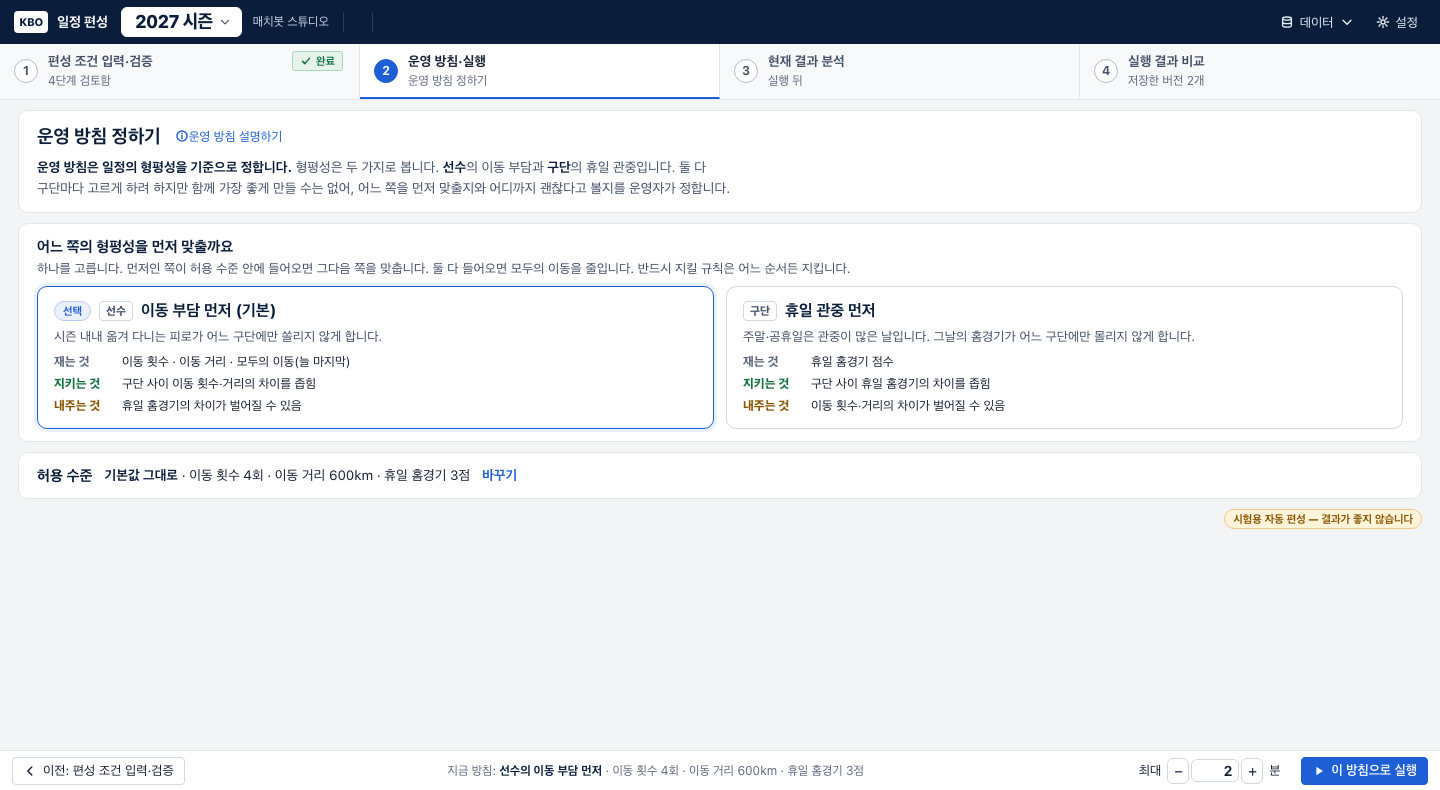
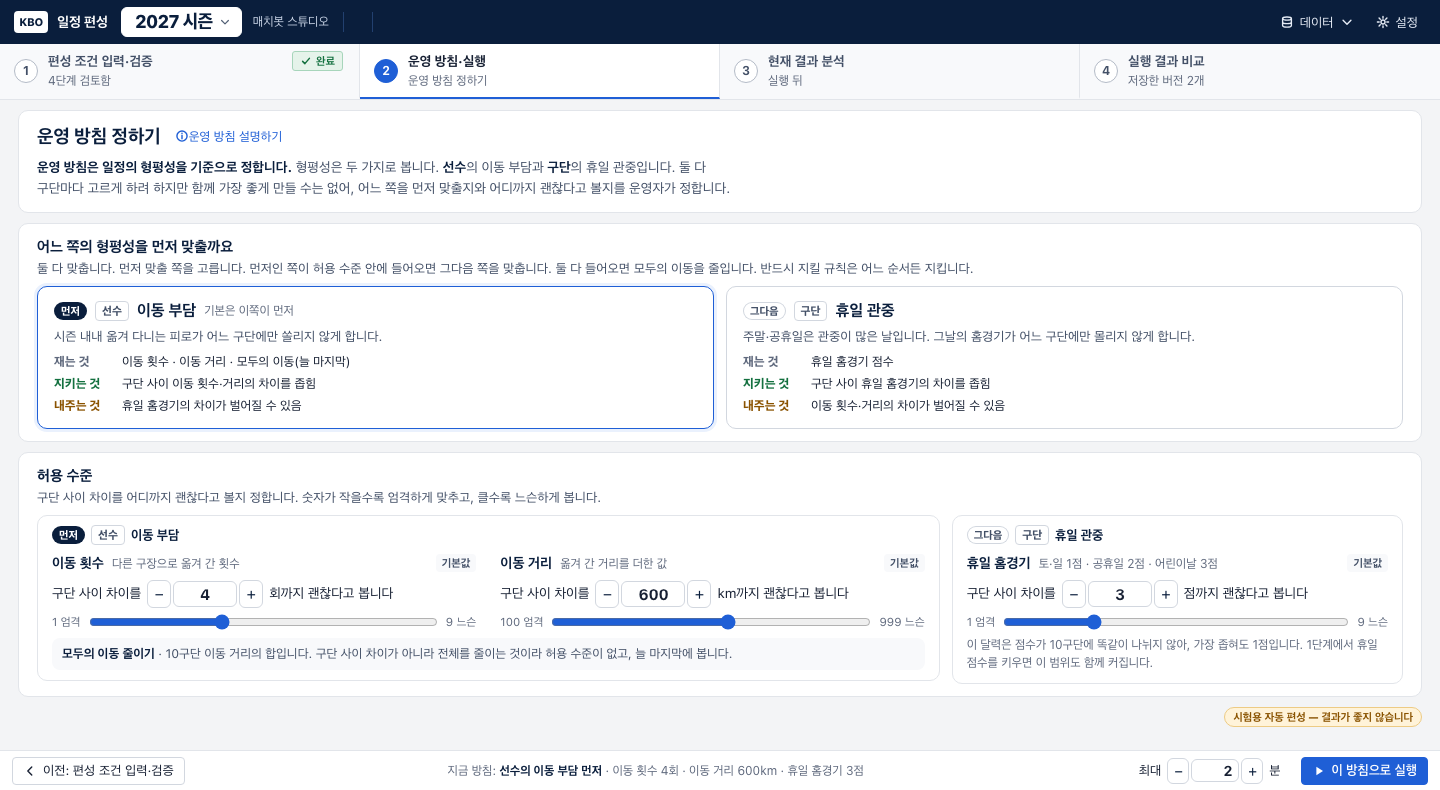
운영 방침 화면: 허용 수준을 늘 펼쳐 보이고, 고른 순서대로 「먼저」「그다음」
- 허용 수준의 접기·「바꾸기」와 요약 한 줄을 없앰(접어 두면 둘 중 하나만 하는 것처럼 읽혔다 — 사용자 지적). 세 숫자 요약은 아래 줄에만
- 카드를 바꾸면 허용 수준 두 칸의 자리도 바뀜: 먼저 맞출 쪽이 왼쪽 「먼저」, 다른 쪽이 「그다음」
- 카드의 「선택」 표를 「먼저」「그다음」으로. 표가 순서를 말하므로 카드 제목은 관점 이름만(「이동 부담」「휴일 관중」), 선수 카드에 「기본은 이쪽이 먼저」
- 카드 위 글 「둘 다 맞춥니다. 먼저 맞출 쪽을 고릅니다.」
- 자가 점검의 숫자 칸 찾기를 칸 순서가 아니라 이름으로, 화면 그림 다시 찍음

diff --git a/ui/app/studio/plan-selftest.js b/ui/app/studio/plan-selftest.js
@@ -15,7 +15,8 @@
   const wait = (ms) => new Promise((r) => setTimeout(r, ms));
   const page = () => (q('#app') || document.body).innerText;
   const ev = (t) => st().events.find((e) => e.type === t);
-  const setBox = (i, v) => { const el = qa('input[data-in="pf-gap"]:not([type=range])')[i]; el.value = v; el.dispatchEvent(new Event('change', { bubbles: true })); flush(); };
+  // 허용 수준 숫자 칸: 0 이동 횟수 · 1 이동 거리 · 2 휴일 홈경기(화면의 칸 순서는 고른 쪽에 따라 바뀌므로 이름으로 찾는다)
+  const setBox = (i, v) => { const el = q('#pf-levels input[data-in="pf-gap"][data-k="' + ['moveGap', 'distanceGapKm', 'holidayGap'][i] + '"]:not([type=range])'); el.value = v; el.dispatchEvent(new Event('change', { bubbles: true })); flush(); };
   const ob = () => st().settings.objective;
   // 규칙을 어긴 결과는 저장하지 않는다. 시험 엔진은 짧은 시간에 규칙을 다 맞추지 못할 수 있어, 그때는 지킨 결과처럼 다시 기록해 이후 점검(저장·번호·불러오기)을 이어 간다
   let forcedRuns = 0;
@@ -89,11 +90,12 @@
       const hasKT = (ms) => ms.some((m) => m.home === 'KIA' && m.away === '키움') && ms.some((m) => m.home === '삼성' && m.away === 'NC');
       ok('다음 → 시리즈를 다시 만들어 개막전·후반기 첫 4연전이 새 대진을 따름', S.ui.step === 2 && S.seriesOkOf(st()) && hasKT(slotMatches(0)) && hasKT(slotMatches(four)));
 
-      // ── 운영 방침 → settings.objective (선택안 B, 사용자 확정 2026-11-12: 카드 둘 + 접어 둔 허용 수준)
-      const cardNames = () => qa('.pf-oc h4').map((h) => h.textContent.replace(/^선택/, '').replace(/^(선수|구단)/, '').trim()).join();
+      // ── 운영 방침 → settings.objective (선택안 B, 사용자 확정 2026-11-12: 카드 둘 + 늘 보이는 허용 수준, 고른 쪽이 「먼저」)
+      const cardNames = () => qa('.pf-oc h4 .nm').map((h) => h.innerText.trim()).join();
+      const cardTags = () => qa('.pf-oc[data-id]').map((c) => c.dataset.id + ':' + ((c.querySelector('h4 .pf-rk') || {}).innerText || '')).join();
       const policy = () => q('.footer .pf-policy').innerText;
       const pageText = () => q('.pf-page').innerText;
-      const sumText = () => q('#pf-levels .pf-fold .sum').innerText;
+      const grpOrder = () => qa('#pf-levels .pf-lv3 > .grp').map((g) => g.dataset.view + ':' + ((g.querySelector('h4 .pf-rk') || {}).innerText || '')).join();
       const stepBtn = (k, d) => q('[data-act="pf-gap-step"][data-k="' + k + '"][data-d="' + d + '"]');
       const rangeOf = (k) => q('#pf-levels input[type=range][data-k="' + k + '"]');
       const boxOf = (k) => q('#pf-levels input[data-in="pf-gap"][data-k="' + k + '"]:not([type=range])');
@@ -102,35 +104,35 @@
       ok('머리글: 「운영 방침 정하기」 · 첫 문장은 형평성 · 두 관점(선수의 이동 부담 · 구단의 휴일 관중) · 설명 링크(제목 바로 오른쪽)', /운영 방침 정하기/.test(q('.pf-head h2').innerText) && /운영 방침은 일정의 형평성을 기준으로 정합니다\./.test(q('.pf-head .pf-d').innerText) && /선수의 이동 부담과 구단의 휴일 관중입니다/.test(q('.pf-head .pf-d').innerText) && /구단마다 고르게/.test(q('.pf-head .pf-d').innerText) && q('.pf-head h2 [data-act="pf-explain"]').getBoundingClientRect().left - q('.pf-head h2').getBoundingClientRect().left < 320);
       ok('없어진 것: 가로 띠 · 목표 네 칸 · 「지금 순위」 칸 · 옛 말(격차 · 순위 · 목표 · 운영의 묘 · 만족)', !q('.pf-band') && !q('.pf-goals') && !q('.pf-goals-lead') && !q('#pf-order-now') && !q('.pf-bridge') && !/격차|순위|목표|운영의 묘|만족|리그 전체 효율/.test(pageText()), (pageText().match(/격차|순위|목표|운영의 묘|만족/) || []).join());
       ok('단계 띠: 「운영 방침·실행」 · 아래 줄: 방침 요약 + 실행 단추 하나(화면 안에는 없음)', /운영 방침·실행/.test(q('#stepper').innerText) && /지금 방침/.test(policy()) && qa('[data-act="pf-run"]').length === 1 && !!q('.footer [data-act="pf-run"]') && !q('.pf-page [data-act="pf-run"]'));
-      ok('카드 둘: 이동 부담 먼저 (기본) · 휴일 관중 먼저(직접 정하기는 숨김) · 관점 표시 선수/구단 · 고른 카드는 「선택」 · 두 제목이 한 줄', /어느 쪽의 형평성을 먼저 맞출까요/.test(pageText()) && cardNames() === '이동 부담 먼저 (기본),휴일 관중 먼저' && !q('[data-act="pf-order-custom"]') && !q('[data-act="pf-move"]') && qa('.pf-oc .pf-who').map((e) => e.innerText).join() === '선수,구단' && /선택/.test(q('.pf-oc.on h4').innerText) && q('.pf-oc.on').dataset.id === 'balance' && new Set(qa('.pf-orders h4').map((h) => Math.round(h.getBoundingClientRect().top))).size === 1, cardNames());
+      ok('카드 둘: 선수 · 이동 부담(기본은 이쪽이 먼저) · 구단 · 휴일 관중(직접 정하기는 숨김) · 고른 카드는 「먼저」, 다른 카드는 「그다음」(「선택」 표 없음) · 두 제목이 한 줄', /어느 쪽의 형평성을 먼저 맞출까요/.test(pageText()) && cardNames() === '이동 부담,휴일 관중' && !q('[data-act="pf-order-custom"]') && !q('[data-act="pf-move"]') && qa('.pf-oc .pf-who').map((e) => e.innerText).join() === '선수,구단' && cardTags() === 'balance:먼저,holiday:그다음' && !/선택/.test(q('#pf-first').innerText) && /기본은 이쪽이 먼저/.test(q('.pf-oc[data-id="balance"] h4').innerText) && !/기본/.test(q('.pf-oc[data-id="holiday"] h4').innerText) && q('.pf-oc.on').dataset.id === 'balance' && new Set(qa('.pf-orders h4').map((h) => Math.round(h.getBoundingClientRect().top))).size === 1, cardNames());
       ok('카드마다 설명 한 줄 · 재는 것 · 지키는 것 · 내주는 것(단정하지 않음) · 모두의 이동은 선수 쪽에 「늘 마지막」', qa('.pf-oc[data-id]').every((c) => !!c.querySelector('p').innerText && [...c.querySelectorAll('.pf-kg dt')].map((d) => d.innerText).join() === '재는 것,지키는 것,내주는 것') && qa('.pf-oc[data-id] .pf-kg div:nth-child(3) dd').every((d) => /수 있음$/.test(d.innerText)) && /이동 횟수 · 이동 거리 · 모두의 이동\(늘 마지막\)/.test(q('.pf-oc[data-id="balance"]').innerText) && /휴일 홈경기 점수/.test(q('.pf-oc[data-id="holiday"]').innerText));
       ok('규칙 설명은 한 문장(「조금이라도 나은 결과」와 함께 적지 않음)', /먼저인 쪽이 허용 수준 안에 들어오면 그다음 쪽을 맞춥니다\. 둘 다 들어오면 모두의 이동을 줄입니다\. 반드시 지킬 규칙은 어느 순서든 지킵니다\./.test(pageText()) && !/조금이라도 나은/.test(pageText()));
-      ok('허용 수준은 접혀 있음: 요약 한 줄 「기본값 그대로」 + 세 숫자 + 「바꾸기」', !q('#pf-levels .pf-lv') && !q('#pf-levels input') && /^기본값 그대로 · 이동 횟수 4회 · 이동 거리 600km · 휴일 홈경기 3점$/.test(sumText().trim()) && q('[data-act="pf-levels-toggle"]').innerText.trim() === '바꾸기' && q('[data-act="pf-levels-toggle"]').getAttribute('aria-expanded') === 'false', sumText());
+      ok('둘 다 맞춘다는 말이 카드 위에 있음(「하나를 고릅니다」로만 쓰지 않음)', /둘 다 맞춥니다\. 먼저 맞출 쪽을 고릅니다\./.test(q('#pf-first .pf-d').innerText) && !/하나를 고릅니다/.test(pageText()));
+      ok('허용 수준은 늘 펼쳐 보임(접기 · 바꾸기 단추 없음) · 처음에는 선수 칸이 「먼저」, 구단 칸이 「그다음」', qa('#pf-levels .pf-lv').length === 3 && !q('[data-act="pf-levels-toggle"]') && !q('#pf-levels .pf-fold') && grpOrder() === 'player:먼저,club:그다음' && qa('#pf-levels .pf-lv').map((e) => e.dataset.goal).join() === 'moves,distance,holiday', grpOrder());
       click('[data-act="pf-order"][data-id="holiday"]'); flush();
-      ok('「휴일 관중 먼저」 → 순서(모두의 이동은 마지막) · 그 카드가 「선택」 · 아래 줄 「구단의 휴일 관중 먼저」', ob().order.join() === 'holiday,moves,distance,total' && q('.pf-oc.on').dataset.id === 'holiday' && qa('.pf-oc.on').length === 1 && /지금 방침: 구단의 휴일 관중 먼저 · 이동 횟수 4회 · 이동 거리 600km · 휴일 홈경기 3점/.test(policy()), policy());
+      ok('「휴일 관중 먼저」 → 순서(모두의 이동은 마지막) · 그 카드가 「먼저」, 다른 카드가 「그다음」 · 허용 수준도 구단 칸이 왼쪽 「먼저」 · 아래 줄 「구단의 휴일 관중 먼저」', ob().order.join() === 'holiday,moves,distance,total' && q('.pf-oc.on').dataset.id === 'holiday' && qa('.pf-oc.on').length === 1 && cardTags() === 'balance:그다음,holiday:먼저' && grpOrder() === 'club:먼저,player:그다음' && qa('#pf-levels .pf-lv').map((e) => e.dataset.goal).join() === 'holiday,moves,distance' && q('#pf-levels .pf-lv3').getBoundingClientRect().left <= q('.grp[data-view="club"]').getBoundingClientRect().left && q('.grp[data-view="club"]').getBoundingClientRect().left < q('.grp[data-view="player"]').getBoundingClientRect().left && /지금 방침: 구단의 휴일 관중 먼저 · 이동 횟수 4회 · 이동 거리 600km · 휴일 홈경기 3점/.test(policy()), policy());
       // 옛 프로젝트·저장 버전: 두 카드와 다른 순서는 그대로 두고 「직접 정한 순서」로 부른다
       setOb({ order: ['moves', 'holiday', 'distance', 'total'] });
-      ok('두 카드와 다른 순서 → 고른 카드 없음 · 카드 아래 「직접 정한 순서」 한 줄(화살표 없음) · 아래 줄도 같은 이름', !q('.pf-oc.on') && /직접 정한 순서/.test(q('#pf-order-now').innerText) && qa('#pf-order-now li .nm').map((e) => e.innerText).join() === '이동 횟수,휴일 홈경기,이동 거리,모두의 이동' && /마지막/.test(qa('#pf-order-now li')[3].innerText) && !q('#pf-order-now [data-act="pf-move"]') && /카드를 고르면 그 순서로 바뀝니다/.test(q('#pf-order-now').innerText) && /지금 방침: 직접 정한 순서 · /.test(policy()) && P.optionOf(ob()) === 'custom');
+      ok('두 카드와 다른 순서 → 고른 카드 없음(카드에 먼저/그다음 표도 없음) · 카드 아래 「직접 정한 순서」 한 줄(화살표 없음) · 아래 줄도 같은 이름 · 허용 수준 칸에는 먼저/그다음 표가 없음', !q('.pf-oc.on') && cardTags() === 'balance:,holiday:' && /직접 정한 순서/.test(q('#pf-order-now').innerText) && qa('#pf-order-now li .nm').map((e) => e.innerText).join() === '이동 횟수,휴일 홈경기,이동 거리,모두의 이동' && /마지막/.test(qa('#pf-order-now li')[3].innerText) && !q('#pf-order-now [data-act="pf-move"]') && /카드를 고르면 그 순서로 바뀝니다/.test(q('#pf-order-now').innerText) && /지금 방침: 직접 정한 순서 · /.test(policy()) && P.optionOf(ob()) === 'custom' && grpOrder() === 'player:,club:' && qa('#pf-levels .pf-lv').map((e) => e.dataset.goal).join() === 'moves,distance,holiday');
       S.actions['pf-move']({ dataset: { k: '0', d: '1' } }); S.actions['pf-order-custom']({}); flush();
       ok('꺼 둔 「직접 정하기」 동작은 불러도 그대로', ob().order.join() === 'moves,holiday,distance,total' && !P.customOrder && P.showDiy === false);
       // 스위치 하나로 다시 보인다(코드는 남겨 두었다)
       P.showDiy = true; flush();
-      ok('스위치를 켜면: 「직접 정하기」 카드 · 순서 줄에 화살표(모두의 이동 줄에는 없음)', cardNames() === '이동 부담 먼저 (기본),휴일 관중 먼저,직접 정하기' && /직접 정하기/.test(q('.pf-oc.on').innerText) && qa('#pf-order-now [data-act="pf-move"]').length === 6 && !q('[data-act="pf-move"][data-k="3"]') && q('[data-act="pf-move"][data-k="0"][data-d="-1"]').disabled && q('[data-act="pf-move"][data-k="2"][data-d="1"]').disabled);
+      ok('스위치를 켜면: 「직접 정하기」 카드 · 순서 줄에 화살표(모두의 이동 줄에는 없음)', cardNames() === '이동 부담,휴일 관중,직접 정하기' && /선택/.test(q('.pf-oc.on h4').innerText) && /직접 정하기/.test(q('.pf-oc.on').innerText) && qa('#pf-order-now [data-act="pf-move"]').length === 6 && !q('[data-act="pf-move"][data-k="3"]') && q('[data-act="pf-move"][data-k="0"][data-d="-1"]').disabled && q('[data-act="pf-move"][data-k="2"][data-d="1"]').disabled);
       click('[data-act="pf-move"][data-k="0"][data-d="1"]'); flush();
       S.actions['pf-move']({ dataset: { k: '2', d: '1' } }); flush();
       ok('켠 채로 ▼ → 순서가 바뀌고 직접 정하기로 남음 · 모두의 이동은 마지막 그대로', ob().order.join() === 'holiday,moves,distance,total' && /직접 정하기/.test(q('.pf-oc.on').innerText) && /지금 방침: 직접 정한 순서/.test(policy()));
       P.showDiy = false; P.customOrder = false; flush();
-      ok('스위치를 끄면 카드 둘로 돌아오고 같은 순서의 카드가 「선택」', cardNames() === '이동 부담 먼저 (기본),휴일 관중 먼저' && q('.pf-oc.on').dataset.id === 'holiday' && !q('#pf-order-now'));
-      // 허용 수준 펼치기
-      click('[data-act="pf-levels-toggle"]'); flush();
-      ok('「바꾸기」 → 펼침: 선수 · 이동 부담 아래 이동 횟수 · 이동 거리, 구단 · 휴일 관중 아래 휴일 홈경기 · 단추는 「접기」', qa('#pf-levels .grp[data-view="player"] .pf-lv').map((e) => e.dataset.goal).join() === 'moves,distance' && qa('#pf-levels .grp[data-view="club"] .pf-lv').map((e) => e.dataset.goal).join() === 'holiday' && /^선수\s*이동 부담$/.test(q('.grp[data-view="player"] > h4').innerText.trim()) && /^구단\s*휴일 관중$/.test(q('.grp[data-view="club"] > h4').innerText.trim()) && q('[data-act="pf-levels-toggle"]').innerText.trim() === '접기' && q('[data-act="pf-levels-toggle"]').getAttribute('aria-expanded') === 'true');
+      ok('스위치를 끄면 카드 둘로 돌아오고 같은 순서의 카드가 「먼저」', cardNames() === '이동 부담,휴일 관중' && q('.pf-oc.on').dataset.id === 'holiday' && cardTags() === 'balance:그다음,holiday:먼저' && !q('#pf-order-now'));
+      // 허용 수준(지금은 휴일 관중 먼저)
+      ok('허용 수준: 구단 · 휴일 관중 아래 휴일 홈경기, 선수 · 이동 부담 아래 이동 횟수 · 이동 거리', qa('#pf-levels .grp[data-view="player"] .pf-lv').map((e) => e.dataset.goal).join() === 'moves,distance' && qa('#pf-levels .grp[data-view="club"] .pf-lv').map((e) => e.dataset.goal).join() === 'holiday' && /^그다음\s*선수\s*이동 부담$/.test(q('.grp[data-view="player"] > h4').innerText.trim()) && /^먼저\s*구단\s*휴일 관중$/.test(q('.grp[data-view="club"] > h4').innerText.trim()), q('.grp[data-view="club"] > h4').innerText.replace(/\s+/g, ' '));
       ok('모두의 이동 줄이기: 선수 칸 아래 한 줄 · 허용 수준 없음 · 늘 마지막', /모두의 이동 줄이기/.test(q('.grp[data-view="player"] .pf-total').innerText) && /허용 수준이 없고, 늘 마지막에 봅니다/.test(q('.pf-total').innerText) && !q('.pf-total input') && !q('.grp[data-view="club"] .pf-total'));
       ok('칸마다 문장 「구단 사이 차이를 …까지 괜찮다고 봅니다」(겹친 부정 없음) · 「기본값」 표시', qa('.pf-lv .pf-st').every((e) => /^구단 사이 차이를/.test(e.innerText.trim()) && /까지 괜찮다고 봅니다/.test(e.innerText)) && !/넘게 많지 않으면|만족/.test(q('#pf-levels').innerText) && ['moveGap', 'distanceGapKm', 'holidayGap'].every((k) => chipOf(k).innerText === '기본값' && !chipOf(k).classList.contains('moved')));
       const ends = (goal) => qa('.pf-lv[data-goal="' + goal + '"] .pf-lr span').map((e) => e.innerText).join(' / ');
       ok('눈금: 양 끝 「엄격」「느슨」 · 이동 횟수 1~9 · 이동 거리 100~999 · 휴일 홈경기 1~9', ends('moves') === '1 엄격 / 9 느슨' && ends('distance') === '100 엄격 / 999 느슨' && ends('holiday') === '1 엄격 / 9 느슨' && rangeOf('moveGap').min === '1' && rangeOf('moveGap').max === '9' && rangeOf('distanceGapKm').min === '100' && rangeOf('distanceGapKm').step === '50' && rangeOf('holidayGap').max === '9' && rangeOf('distanceGapKm').value === '600', ends('moves') + ' | ' + ends('distance') + ' | ' + ends('holiday'));
       ok('숫자가 작을수록 엄격 · 클수록 느슨이라는 머리말 · 지난 결과 숫자는 없음', /숫자가 작을수록 엄격하게 맞추고, 클수록 느슨하게 봅니다/.test(q('#pf-levels .pf-d').innerText) && !/2025|KBO \d/.test(q('#pf-levels').innerText));
       setBox(1, '800');
-      ok('숫자 칸 800 → 저장 · 눈금도 800 · 「기본 600km에서 바꿈」 · 요약은 「바꾼 값」', ob().distanceGapKm === 800 && rangeOf('distanceGapKm').value === '800' && chipOf('distanceGapKm').innerText === '기본 600km에서 바꿈' && chipOf('distanceGapKm').classList.contains('moved') && /^바꾼 값 · 이동 횟수 4회 · 이동 거리 800km · 휴일 홈경기 3점$/.test(sumText().trim()) && chipOf('moveGap').innerText === '기본값', sumText());
+      ok('숫자 칸 800 → 저장 · 눈금도 800 · 「기본 600km에서 바꿈」 · 아래 줄 요약도 800km', ob().distanceGapKm === 800 && rangeOf('distanceGapKm').value === '800' && chipOf('distanceGapKm').innerText === '기본 600km에서 바꿈' && chipOf('distanceGapKm').classList.contains('moved') && /이동 횟수 4회 · 이동 거리 800km · 휴일 홈경기 3점/.test(policy()) && chipOf('moveGap').innerText === '기본값', policy());
       setBox(1, '');
       ok('빈 칸은 받지 않고 칸은 지금 값으로 돌아옴', ob().distanceGapKm === 800 && boxOf('distanceGapKm').value === '800');
       setBox(1, 'abc');
@@ -165,7 +167,7 @@
       setBox(0, '4');
       const drag = (k, v) => { const r = rangeOf(k); r.value = v; r.dispatchEvent(new Event('input', { bubbles: true })); return r; };
       const r1 = drag('moveGap', '7');
-      ok('눈금을 끄는 동안: 숫자 칸 · 기본값 표시 · 요약 줄 · 아래 줄의 숫자가 따라오고 저장은 아직', ob().moveGap === 4 && boxOf('moveGap').value === '7' && chipOf('moveGap').innerText === '기본 4회에서 바꿈' && /이동 횟수 7회/.test(sumText()) && /이동 횟수 7회/.test(policy()) && rangeOf('moveGap') === r1, sumText());
+      ok('눈금을 끄는 동안: 숫자 칸 · 기본값 표시 · 아래 줄의 숫자가 따라오고 저장은 아직', ob().moveGap === 4 && boxOf('moveGap').value === '7' && chipOf('moveGap').innerText === '기본 4회에서 바꿈' && /이동 횟수 7회/.test(policy()) && rangeOf('moveGap') === r1, policy());
       r1.dispatchEvent(new Event('change', { bubbles: true })); flush();
       ok('눈금에서 손을 떼면 저장 · 숫자 칸과 같은 값', ob().moveGap === 7 && boxOf('moveGap').value === '7' && rangeOf('moveGap').value === '7');
       const r2 = drag('distanceGapKm', '1000'); const live999 = boxOf('distanceGapKm').value; r2.dispatchEvent(new Event('change', { bubbles: true })); flush();
@@ -182,10 +184,9 @@
       app().undo(); flush();
       ok('되돌리면 다시 1~9', JSON.stringify(st().settings.holidays) === hol && P.levelRange('holidayGap').max === 9 && ends('holiday') === '1 엄격 / 9 느슨');
       setBox(1, '600'); setBox(0, '4'); setBox(2, '3');
-      click('[data-act="pf-levels-toggle"]'); flush();
-      ok('「접기」 → 다시 한 줄 요약(기본값 그대로)', !q('#pf-levels .pf-lv') && /^기본값 그대로 · 이동 횟수 4회 · 이동 거리 600km · 휴일 홈경기 3점$/.test(sumText().trim()) && q('[data-act="pf-levels-toggle"]').innerText.trim() === '바꾸기');
+      ok('기본값으로 돌리면 세 칸 모두 「기본값」', ['moveGap', 'distanceGapKm', 'holidayGap'].every((k) => chipOf(k).innerText === '기본값'));
       click('[data-act="pf-order"][data-id="balance"]'); flush();
-      ok('방침 요약: 선수의 이동 부담 먼저 · 허용 수준 셋', /지금 방침: 선수의 이동 부담 먼저 · 이동 횟수 4회 · 이동 거리 600km · 휴일 홈경기 3점/.test(policy()) && ob().order.join() === 'moves,distance,holiday,total', policy());
+      ok('「이동 부담 먼저」로 돌리면 허용 수준도 선수 칸이 다시 왼쪽 · 방침 요약: 선수의 이동 부담 먼저 · 허용 수준 셋', /지금 방침: 선수의 이동 부담 먼저 · 이동 횟수 4회 · 이동 거리 600km · 휴일 홈경기 3점/.test(policy()) && ob().order.join() === 'moves,distance,holiday,total' && grpOrder() === 'player:먼저,club:그다음', policy());
       ok('실행 단추: 「이 방침으로 실행」 · 실행 시간 입력은 아래 줄 단추 옆 · 화면 안에 실행 칸 없음', /^이 방침으로 실행$/.test(q('[data-act="pf-run"]').innerText.trim()) && !!q('.footer .pf-ftime input[data-in="pf-time"]') && !q('.pf-page .pf-run') && !q('.pf-page input[data-in="pf-time"]'));
       // ── 운영 방침 설명하기 → 오른쪽 설명 창(뒤 화면은 가리지 않음)
       click('[data-act="pf-explain"]'); flush();
@@ -235,8 +236,7 @@
       ok('방침과 견주기: 결과의 실제 차이와 허용 수준을 견줌(1순위부터)', (() => { const gaps = app().derived().ex.objectiveGaps, o = ob(), key = { moves: ['moves', 'moveGap'], distance: ['distanceKm', 'distanceGapKm'], holiday: ['holiday', 'holidayGap'] };
         return o.order.filter((id) => key[id]).every((id, i) => { const it = qa('.pf-vs .it')[i], inside = gaps[key[id][0]] <= o[key[id][1]]; return it.classList.contains(inside ? 'ok' : 'over') && (inside ? /허용 안$/ : /넘음$/).test(it.innerText); }); })());
       click('[data-act="pf-relevel"]'); flush();
-      ok('「수준 다시 정하기」 → 운영 방침 화면의 허용 수준이 펼쳐진 채로', S.ui.step === 2 && !!q('#pf-levels') && P.levelsOpen === true && qa('#pf-levels .pf-lv').length === 3 && q('[data-act="pf-levels-toggle"]').innerText.trim() === '접기');
-      click('[data-act="pf-levels-toggle"]'); flush();
+      ok('「수준 다시 정하기」 → 운영 방침 화면의 허용 수준(늘 펼쳐 있음)', S.ui.step === 2 && !!q('#pf-levels') && qa('#pf-levels .pf-lv').length === 3);
       S.go({ step: 5 }); flush();
       ok('시험 엔진 결과임을 표시(서버 없을 때만)', app().engineConfig.kind === 'REST' || /시험용 자동 편성으로 낸 결과/.test(page()));
 

diff --git a/ui/app/studio/plan-flow.js b/ui/app/studio/plan-flow.js
@@ -3,7 +3,7 @@
  *  처음 화면: 결과 확인(2025 · 확정한 해) / 새 계획 만들기(2027). 목적 아래에 연도를 둔다. 실행만 끝난 결과는 확정 전까지 결과 확인에 나오지 않는다(사용자 결정 2026-11-01).
  *  단계 띠 4칸: 값 입력·검증 → 운영 방침·실행 → 현재 결과 분석 → 실행 결과 비교.
  *   1 값 입력·검증: 기존 4단계(구단 정보 → 시즌 기간 → 주요 이벤트 일정 → 확인) 위에 추정값 검토 줄과 말풍선 안내. 「수정」은 기존 달력을 연다.
- *   2 운영 방침(사용자 확정 2026-11-12): 머리글(운영 방침은 일정의 형평성을 기준으로 — 선수의 이동 부담, 구단의 휴일 관중) → 카드 둘(이동 부담 먼저·휴일 관중 먼저) → 접어 둔 허용 수준(요약 한 줄, 「바꾸기」로 펼치면 관점별 세 칸) → settings.objective로 서버에 보낸다. 「직접 정하기」는 P.showDiy로 꺼 두었다. 실행 시간·실행 단추는 아래 줄에만. 값 형식은 그대로.
+ *   2 운영 방침(사용자 확정 2026-11-12): 머리글(운영 방침은 일정의 형평성을 기준으로 — 선수의 이동 부담, 구단의 휴일 관중) → 카드 둘(이동 부담 먼저·휴일 관중 먼저) → 허용 수준(늘 펼쳐 보임, 관점별 두 칸이 고른 순서대로 「먼저」「그다음」) → settings.objective로 서버에 보낸다. 「직접 정하기」는 P.showDiy로 꺼 두었다. 실행 시간·실행 단추는 아래 줄에만. 값 형식은 그대로.
  *   3 현재 결과 분석: 한 장 대시보드 + 자동 저장한 이름(바꿀 수 있음). 기존 ③·④ 화면은 「일정 자세히 보기」·「구단별 보기」으로 들어간다.
  *   4 실행 결과 비교: 저장한 버전을 고른 운영 방침의 순위대로 한 표에 세우고, 고른 둘을 평가 기준마다 비교한다. 저장한 버전이 있으면 언제든 들어간다.
  *  S.ui.step: 1·3·4는 기존 화면, 2는 여기서 다시 그리고, 5 = 현재 결과 분석, 6 = 실행 결과 비교.
@@ -40,7 +40,7 @@
     player: { who: '선수', name: '이동 부담', why: '시즌 내내 옮겨 다니는 피로가 어느 구단에만 쏠리지 않게 합니다.', keys: ['moveGap', 'distanceGapKm'] },
     club: { who: '구단', name: '휴일 관중', why: '주말·공휴일은 관중이 많은 날입니다. 그날의 홈경기가 어느 구단에만 몰리지 않게 합니다.', keys: ['holidayGap'] }
   };
-  // 카드 둘: 어느 쪽의 형평성을 먼저 맞추는지. policy = 아래 줄 요약에 쓰는 이름. 「내주는 것」은 단정하지 않고 「~할 수 있음」으로 쓴다.
+  // 카드 둘: 어느 쪽의 형평성을 먼저 맞추는지. name = 되돌리기 목록에 남는 이름(카드 제목은 관점 이름과 「먼저」「그다음」 표), policy = 아래 줄 요약에 쓰는 이름. 「내주는 것」은 단정하지 않고 「~할 수 있음」으로 쓴다.
   const ORDERS = [
     { id: 'balance', view: 'player', name: '이동 부담 먼저 (기본)', policy: '선수의 이동 부담 먼저', measure: '이동 횟수 · 이동 거리 · 모두의 이동(늘 마지막)', keep: '구단 사이 이동 횟수·거리의 차이를 좁힘', give: '휴일 홈경기의 차이가 벌어질 수 있음', order: ['moves', 'distance', 'holiday', 'total'] },
     { id: 'holiday', view: 'club', name: '휴일 관중 먼저', policy: '구단의 휴일 관중 먼저', measure: '휴일 홈경기 점수', keep: '구단 사이 휴일 홈경기의 차이를 좁힘', give: '이동 횟수·거리의 차이가 벌어질 수 있음', order: ['holiday', 'moves', 'distance', 'total'] }
@@ -606,13 +606,14 @@
   };
 
   // ───────── 2 운영 방침·실행 ─────────
-  // 화면의 글과 모양은 사용자와 합의한 설계(2026-11-12, 선택안 B)다. 관점(왜 재는지)을 먼저 세우고 지표는 그 아래에 묶는다.
+  // 화면의 글과 모양은 사용자와 합의한 설계(2026-11-12, 선택안 B에서 허용 수준만 늘 펼침)다. 관점(왜 재는지)을 먼저 세우고 지표는 그 아래에 묶는다.
   // 같은 선택을 여러 군데서 되풀이하지 않는다: 고르는 곳은 카드 둘, 요약은 아래 줄 하나. 「파레토」 같은 말과 2025 숫자(이 엔진·KBO 실제)는 화면에 쓰지 않는다.
   P.policyCopy = {
     title: '운영 방침 정하기',
     // 굵은 글씨가 들어가 글자 그대로 넣는다(사용자가 정한 첫 문장)
     lead: '<b>운영 방침은 일정의 형평성을 기준으로 정합니다.</b> 형평성은 두 가지로 봅니다. <b>선수</b>의 이동 부담과 <b>구단</b>의 휴일 관중입니다. 둘 다 구단마다 고르게 하려 하지만 함께 가장 좋게 만들 수는 없어, 어느 쪽을 먼저 맞출지와 어디까지 괜찮다고 볼지를 운영자가 정합니다.',
     firstTitle: '어느 쪽의 형평성을 먼저 맞출까요',
+    firstLead: '둘 다 맞춥니다. 먼저 맞출 쪽을 고릅니다.', // 「하나를 고릅니다」로만 쓰면 둘 중 하나만 하는 것처럼 읽혔다(사용자 지적 2026-11-12)
     rule: '먼저인 쪽이 허용 수준 안에 들어오면 그다음 쪽을 맞춥니다. 둘 다 들어오면 모두의 이동을 줄입니다. 반드시 지킬 규칙은 어느 순서든 지킵니다.', // 규칙 설명은 이 한 문장뿐(「조금이라도 나은 결과」와 「허용 안이면 다음으로」를 함께 적지 않는다)
     levelsTitle: '허용 수준',
     levelsLead: '구단 사이 차이를 어디까지 괜찮다고 볼지 정합니다. 숫자가 작을수록 엄격하게 맞추고, 클수록 느슨하게 봅니다.',
@@ -629,14 +630,16 @@
       ob.order.map((i, k) => '<li><span class="pf-rk">' + (lastFixed && i === LAST ? '마지막' : k + 1) + '</span><span class="nm">' + GOAL_LABEL[i] + '</span>' + (P.showDiy && !(lastFixed && i === LAST) ? '<span class="pf-mv"><button data-act="pf-move" data-k="' + k + '" data-d="-1"' + (k === 0 ? ' disabled' : '') + ' aria-label="앞으로">▲</button><button data-act="pf-move" data-k="' + k + '" data-d="1"' + (k >= top ? ' disabled' : '') + ' aria-label="뒤로">▼</button></span>' : '') + '</li>').join('') + '</ol>' +
       (P.showDiy ? '' : '<span class="s">카드를 고르면 그 순서로 바뀝니다.</span>') + '</div>';
   }
-  /** 카드 둘: 어느 쪽의 형평성을 먼저 맞추는지. 카드마다 설명 한 줄 · 재는 것 · 지키는 것 · 내주는 것 */
+  /** 카드 둘: 두 관점. 둘 다 맞추되 어느 쪽이 먼저인지를 고른다 — 고른 카드에 「먼저」, 다른 카드에 「그다음」(허용 수준 칸과 같은 표. 사용자 결정 2026-11-12:
+   *  고른 카드에만 「선택」이 붙으면 둘 중 하나만 하는 것처럼 읽혔다). 표가 순서를 말하므로 카드 제목은 관점 이름만 쓴다(「휴일 관중 먼저」에 「그다음」이 붙으면 말이 어긋난다).
+   *  카드마다 설명 한 줄 · 재는 것 · 지키는 것 · 내주는 것. 두 카드와 다른 순서면 표를 붙이지 않는다 */
   function orderCards(ob) {
     const hit = orderHit(ob), custom = !hit;
-    const pick = (on) => (on ? '<span class="pf-tag blue">선택</span>' : '');
+    const pick = (on) => (on ? '<span class="pf-tag blue">선택</span>' : ''); // 직접 정하기 카드에만
     const card = (o) => { const on = !!hit && hit.id === o.id, v = VIEWS[o.view];
-      return '<div class="pf-oc' + (on ? ' on' : '') + '" role="button" tabindex="0" data-act="pf-order" data-id="' + o.id + '" aria-pressed="' + on + '"><h4>' + pick(on) + '<span class="pf-who">' + v.who + '</span>' + esc(o.name) + '</h4><p>' + esc(v.why) + '</p>' +
+      return '<div class="pf-oc' + (on ? ' on' : '') + '" role="button" tabindex="0" data-act="pf-order" data-id="' + o.id + '" aria-pressed="' + on + '"' + (hit && !on ? ' title="누르면 이쪽을 먼저 맞춥니다"' : '') + '><h4>' + (hit ? '<span class="pf-rk' + (on ? '' : ' next') + '">' + (on ? '먼저' : '그다음') + '</span>' : '') + '<span class="pf-who">' + v.who + '</span><span class="nm">' + v.name + '</span>' + (o.id === ORDERS[0].id ? '<small>기본은 이쪽이 먼저</small>' : '') + '</h4><p>' + esc(v.why) + '</p>' +
         '<dl class="pf-kg"><div><dt class="m">재는 것</dt><dd>' + esc(o.measure) + '</dd></div><div><dt class="k">지키는 것</dt><dd>' + esc(o.keep) + '</dd></div><div><dt class="g">내주는 것</dt><dd>' + esc(o.give) + '</dd></div></dl></div>'; };
-    const diy = P.showDiy ? '<div class="pf-oc' + (custom ? ' on' : '') + '" role="button" tabindex="0" data-act="pf-order-custom" aria-pressed="' + custom + '"><h4>' + pick(custom) + '직접 정하기</h4><p>재는 것 넷의 순서를 아래에서 화살표로 바꿉니다. 모두의 이동은 늘 마지막입니다.</p></div>' : '';
+    const diy = P.showDiy ? '<div class="pf-oc' + (custom ? ' on' : '') + '" role="button" tabindex="0" data-act="pf-order-custom" aria-pressed="' + custom + '"><h4>' + pick(custom) + '<span class="nm">직접 정하기</span></h4><p>재는 것 넷의 순서를 아래에서 화살표로 바꿉니다. 모두의 이동은 늘 마지막입니다.</p></div>' : '';
     return '<div class="pf-orders' + (P.showDiy ? ' three' : '') + '">' + ORDERS.map(card).join('') + diy + '</div>' + (custom ? orderNow(ob) : '');
   }
   // 허용 수준은 폭(가장 많은 구단 − 가장 적은 구단)이다. 결과가 어디에 놓일지는 실행 전에 모르므로 2025년 실제 값 같은 견줄 숫자는 붙이지 않고,
@@ -672,8 +675,6 @@
   Object.assign(P, { tolFacts, DEFAULT_OBJECTIVE, VIEWS, LEVELS, LEVEL_KEYS, levelRange });
   /** 기본값 표시: 기본값이면 「기본값」, 바꿨으면 「기본 4회에서 바꿈」 */
   const defText = (k, v) => (v === DEFAULT_OBJECTIVE[k] ? '기본값' : '기본 ' + num(DEFAULT_OBJECTIVE[k]) + LEVELS[k].unit + '에서 바꿈');
-  const levelsMoved = (ob) => LEVEL_KEYS.some((k) => ob[k] !== DEFAULT_OBJECTIVE[k]);
-  const movedText = (ob) => (levelsMoved(ob) ? '바꾼 값' : '기본값 그대로');
   /** 「이동 횟수 4회 · 이동 거리 600km · 휴일 홈경기 3점」. 숫자는 눈금을 끄는 동안 바로 고칠 수 있게 표시를 달아 둔다(pf-gap-live) */
   const levelSum = (ob) => LEVEL_KEYS.map((k) => LEVELS[k].name + ' <span data-pfv="' + k + '">' + num(ob[k]) + '</span>' + LEVELS[k].unit).join(' · ');
   /** 허용 수준 한 칸: 이름 · 무엇을 세는지 · 기본값 표시 → 문장 한 줄(숫자 칸과 −·+) → 눈금(양 끝 「엄격」「느슨」). 숫자 칸·단추·눈금은 같은 값을 가리킨다 */
@@ -688,14 +689,15 @@
       (out ? '<div class="pf-lv-n out">지금 값(' + num(v) + m.unit + ')이 고를 수 있는 범위 ' + num(m.min) + '~' + num(m.max) + m.unit + ' 밖입니다. 고치면 범위 안으로 맞춥니다.</div>' : '') +
       (k === 'holidayGap' ? '<div class="pf-lv-n">' + (f.even ? '' : '이 달력은 점수가 ' + f.n + '구단에 똑같이 나뉘지 않아, 가장 좁혀도 1점입니다. ') + '1단계에서 휴일 점수를 키우면 이 범위도 함께 커집니다.</div>' : '') + '</div>';
   }
-  /** 허용 수준: 접어 둔 요약 한 줄(「기본값 그대로」 또는 「바꾼 값」 + 세 숫자 + 「바꾸기」). 펼치면 관점별로 묶인 세 칸. 「수준 다시 정하기」(pf-relevel)는 펼친 채로 연다 */
+  /** 허용 수준: 늘 펼쳐 보인다(사용자 결정 2026-11-12: 접어 두면 둘 중 하나만 하는 것처럼 읽혔다 — 둘 다 맞추되 순서와 범위를 정하는 화면이다).
+   *  관점별 두 칸은 고른 순서대로 놓는다: 먼저 맞출 쪽이 왼쪽 「먼저」, 다른 쪽이 「그다음」. 카드를 바꾸면 칸의 자리도 바뀐다.
+   *  두 카드와 다른 순서(옛 프로젝트 · 직접 정하기)는 첫째로 둔 것이 속한 쪽을 왼쪽에 두고 표는 붙이지 않는다 */
   function levelsSec(ob, f) {
-    const C = P.policyCopy, open = !!P.levelsOpen;
-    const grp = (id) => { const v = VIEWS[id];
-      return '<div class="grp' + (v.keys.length > 1 ? ' two' : '') + '" data-view="' + id + '"><h4><span class="pf-who">' + v.who + '</span>' + v.name + '</h4><div class="pf-lvs">' + v.keys.map((k) => levelBox(k, ob, f)).join('') + '</div>' + (id === 'player' ? '<p class="pf-total">' + C.total + '</p>' : '') + '</div>'; };
-    return '<div class="pf-sec" id="pf-levels"><div class="pf-fold"><h3>' + esc(C.levelsTitle) + '</h3><span class="sum"><b data-pfmoved>' + movedText(ob) + '</b> · ' + levelSum(ob) + '</span>' +
-      '<button class="pf-link" data-act="pf-levels-toggle" aria-expanded="' + open + '">' + (open ? '접기' : '바꾸기') + '</button></div>' +
-      (open ? '<p class="pf-d">' + esc(C.levelsLead) + '</p><div class="pf-lv3">' + grp('player') + grp('club') + '</div>' : '') + '</div>';
+    const C = P.policyCopy, hit = orderHit(ob), at = (k) => ob.order.indexOf(LEVELS[k].goal);
+    const ids = ob.order[0] === 'holiday' ? ['club', 'player'] : ['player', 'club'];
+    const grp = (id, i) => { const v = VIEWS[id], keys = v.keys.slice().sort((x, y) => at(x) - at(y));
+      return '<div class="grp' + (keys.length > 1 ? ' two' : '') + '" data-view="' + id + '"><h4>' + (hit ? '<span class="pf-rk' + (i ? ' next' : '') + '">' + (i ? '그다음' : '먼저') + '</span>' : '') + '<span class="pf-who">' + v.who + '</span>' + v.name + '</h4><div class="pf-lvs">' + keys.map((k) => levelBox(k, ob, f)).join('') + '</div>' + (id === 'player' ? '<p class="pf-total">' + C.total + '</p>' : '') + '</div>'; };
+    return '<div class="pf-sec" id="pf-levels"><h3>' + esc(C.levelsTitle) + '</h3><p class="pf-d">' + esc(C.levelsLead) + '</p><div class="pf-lv3' + (ids[0] === 'club' ? ' club-first' : '') + '">' + ids.map(grp).join('') + '</div></div>';
   }
   /** 「운영 방침 설명하기」 → 설명 창(objective-help.js). 운영 방침 화면(머리글 오른쪽)과 실행 중 화면(오른쪽 위)에만 둔다 */
   const explainBtn = () => '<button class="pf-link' + (S.ui.drawer === 'explain' ? ' on' : '') + '" data-act="pf-explain">' + icon('info') + '운영 방침 설명하기</button>';
@@ -717,7 +719,7 @@
       (pf.ok ? '' : '<div class="pf-note warn">사전 점검에 진행 불가 ' + pf.counts.block + '건이 있어 실행할 수 없습니다 — ' + esc(blockNames(pf)) + '. 편성 조건 입력·검증으로 돌아가 고치세요.</div>');
     return '<div class="pf-page pf-spread">' +
       '<div class="pf-sec pf-head"><h2>' + esc(C.title) + '<span class="r">' + explainBtn() + '</span></h2><p class="pf-d">' + C.lead + '</p></div>' +
-      '<div class="pf-sec" id="pf-first"><h3>' + esc(C.firstTitle) + '</h3><p class="pf-d">하나를 고릅니다. ' + esc(C.rule) + '</p>' + orderCards(ob) + '</div>' +
+      '<div class="pf-sec" id="pf-first"><h3>' + esc(C.firstTitle) + '</h3><p class="pf-d">' + esc(C.firstLead) + ' ' + esc(C.rule) + '</p>' + orderCards(ob) + '</div>' +
       levelsSec(ob, f) +
       (notes ? '<div class="pf-runnotes">' + notes + '</div>' : '') + '</div>';
   }
@@ -1301,8 +1303,7 @@
     'pf-tour-again': () => { for (const n of [1, 2, 3, 4]) S.ls.del(tourKey(n)); S.render(); },
     'pf-order': (el) => { const o = ORDERS.find((x) => x.id === el.dataset.id); if (!o) return; P.customOrder = false; app().updateSettings({ objective: Object.assign({}, objective(), { order: o.order.slice() }) }, '운영 방침: ' + o.name); },
     'pf-order-custom': (el, e) => { if (!P.showDiy || (e && e.target.closest('[data-act="pf-move"]'))) return; P.customOrder = true; S.render(); }, // 직접 정하기는 꺼 두었다(P.showDiy)
-    'pf-levels-toggle': () => { P.levelsOpen = !P.levelsOpen; refocus('[data-act="pf-levels-toggle"]'); S.render(); },
-    'pf-relevel': () => { P.levelsOpen = true; const jump = () => { const el = document.getElementById('pf-levels'); if (el && el.scrollIntoView) el.scrollIntoView({ block: 'start' }); }; S.afterRender(jump); S.actions['pf-stage']({ dataset: { stage: '2' } }); setTimeout(jump, 50); }, // 접어 둔 허용 수준을 펼친 채로 열고, 그리고 난 뒤 그 구역으로(뒤따르는 다시 그리기가 있어도 한 번 더)
+    'pf-relevel': () => { const jump = () => { const el = document.getElementById('pf-levels'); if (el && el.scrollIntoView) el.scrollIntoView({ block: 'start' }); }; S.afterRender(jump); S.actions['pf-stage']({ dataset: { stage: '2' } }); setTimeout(jump, 50); }, // 그리고 난 뒤 허용 수준 구역으로(뒤따르는 다시 그리기가 있어도 한 번 더)
     'pf-move': (el, e) => {
       if (e) e.stopPropagation();
       if (!P.showDiy) return;
@@ -1408,13 +1409,12 @@
     if (objective()[k] === v) { S.render(); return; }
     app().updateSettings({ objective: Object.assign({}, objective(), { [k]: v }) }, '허용 수준 바꾸기');
   };
-  /** 눈금을 끄는 동안: 숫자 칸 · 기본값 표시 · 요약 줄(접힌 줄과 아래 줄)의 숫자만 고친다. 다시 그리면 끌기가 끊기므로 저장은 손을 뗄 때(pf-gap) 한다 */
+  /** 눈금을 끄는 동안: 숫자 칸 · 기본값 표시 · 아래 줄 요약의 숫자만 고친다. 다시 그리면 끌기가 끊기므로 저장은 손을 뗄 때(pf-gap) 한다 */
   S.inputs['pf-gap-live'] = (el) => {
-    const k = el.dataset.k, v = clampLevel(k, Number(el.value)), ob = Object.assign({}, objective(), { [k]: v });
-    const box = document.querySelector('#pf-levels input[data-in="pf-gap"][data-k="' + k + '"]:not([type=range])'), chip = document.querySelector('[data-pfdef="' + k + '"]'), moved = document.querySelector('[data-pfmoved]');
+    const k = el.dataset.k, v = clampLevel(k, Number(el.value));
+    const box = document.querySelector('#pf-levels input[data-in="pf-gap"][data-k="' + k + '"]:not([type=range])'), chip = document.querySelector('[data-pfdef="' + k + '"]');
     if (box) box.value = v;
     if (chip) { chip.textContent = defText(k, v); chip.classList.toggle('moved', v !== DEFAULT_OBJECTIVE[k]); }
-    if (moved) moved.textContent = movedText(ob);
     document.querySelectorAll('[data-pfv="' + k + '"]').forEach((sp) => { sp.textContent = num(v); });
   };
   S.actions['pf-gap-step'] = (el) => {

diff --git a/ui/app/studio/plan-flow.css b/ui/app/studio/plan-flow.css
@@ -109,24 +109,27 @@ body.pf-ro .tb-group, body.pf-ro .tb-sep, body.pf .tb-btn[data-act="open-ops"], 
 .pf-num .v { font-size: 20px; font-weight: 800; color: var(--navy); } .pf-num .v small { font-size: 12px; font-weight: 600; }
 .pf-num .s { font-size: 11.5px; color: var(--text-3); }
 
-/* 운영 방침(사용자 확정 2026-11-12, 선택안 B): ① 머리글(형평성 설명) ② 카드 둘 — 어느 쪽의 형평성을 먼저 맞출지 ③ 접어 둔 허용 수준(요약 한 줄, 「바꾸기」로 펼치면 관점별 세 칸).
+/* 운영 방침(사용자 확정 2026-11-12, 선택안 B에서 허용 수준만 늘 펼침): ① 머리글(형평성 설명) ② 카드 둘 — 어느 쪽의 형평성을 먼저 맞출지 ③ 허용 수준(관점별 두 칸이 고른 순서대로).
    칸은 내용 높이만 쓴다. 창이 내용보다 높아도 칸을 늘리지 않고 남는 자리는 아래에 둔다(늘리면 카드가 비어 보인다). 창 크기에 따라 배치를 바꾸지 않는다 */
-.pf-page.pf-spread { padding-top: 10px; padding-bottom: 10px; gap: 10px; } /* 노트북(1440×790)에서 허용 수준을 펼쳐도 한 화면에 들어오는 여백 */
+.pf-page.pf-spread { padding-top: 10px; padding-bottom: 10px; gap: 10px; } /* 노트북(1440×790)에서 한 화면에 들어오는 여백 */
 .pf-spread .pf-sec { padding: 12px 18px; }
 .pf-spread .pf-sec > .pf-d { margin: 2px 0 8px; font-size: 13px; }
 .pf-head h2 { margin: 0; font-size: 19px; color: var(--navy); display: flex; align-items: center; gap: 10px; }
 .pf-head h2 .r { margin-left: 4px; font-weight: 400; font-size: 12.5px; } /* 제목 바로 오른쪽(사용자 결정 2026-11-02) */
 .pf-spread .pf-head > .pf-d { margin: 6px 0 0; font-size: 13.5px; line-height: 1.6; max-width: 1040px; text-wrap: balance; }
 .pf-head .pf-d b { color: var(--navy); }
+/* 순서 표 「먼저」(남색) · 「그다음」(테두리만): 카드와 허용 수준 칸이 같은 표를 쓴다 */
+.pf-rk.next { background: #fff; color: var(--text-2); box-shadow: inset 0 0 0 1px var(--line-2); }
 /* 관점 표시: 「선수」「구단」 */
 .pf-who { display: inline-block; font-size: 11.5px; font-weight: 800; color: var(--text-2); border: 1px solid var(--line-2); border-radius: 4px; padding: 0 6px; line-height: 18px; flex: none; white-space: nowrap; }
-/* ② 카드 둘(직접 정하기를 켜면 셋): 이름 → 설명 한 줄 → 재는 것 · 지키는 것 · 내주는 것 */
+/* ② 카드 둘(직접 정하기를 켜면 셋): 「먼저」/「그다음」 표 + 관점 이름 → 설명 한 줄 → 재는 것 · 지키는 것 · 내주는 것 */
 .pf-orders { display: grid; grid-template-columns: repeat(2, minmax(0, 1fr)); gap: 12px; }
 .pf-orders.three { grid-template-columns: repeat(3, minmax(0, 1fr)); }
 .pf-oc { border: 1px solid var(--line-2); border-radius: 10px; padding: 12px 16px; background: #fff; text-align: left; cursor: pointer; font: inherit; color: inherit; min-width: 0; }
 .pf-oc:hover { border-color: var(--blue-line); }
 .pf-oc.on { border-color: var(--blue); box-shadow: 0 0 0 3px var(--blue-weak); }
 .pf-oc h4 { margin: 0 0 4px; font-size: 16px; color: var(--navy); display: flex; gap: 8px; align-items: center; flex-wrap: wrap; }
+.pf-oc h4 small { font-size: 12px; font-weight: 400; color: var(--text-3); }
 .pf-oc p { margin: 0 0 8px; font-size: 13px; color: var(--text-2); }
 .pf-kg { margin: 0; display: grid; gap: 3px; font-size: 12.5px; line-height: 1.5; }
 .pf-kg div { display: grid; grid-template-columns: 58px minmax(0, 1fr); gap: 10px; }
@@ -144,12 +147,9 @@ body.pf-ro .tb-group, body.pf-ro .tb-sep, body.pf .tb-btn[data-act="open-ops"], 
 .pf-mv { display: inline-flex; gap: 2px; vertical-align: 1px; }
 .pf-mv button { border: 1px solid var(--line-2); background: #fff; border-radius: 3px; width: 18px; height: 16px; font-size: 9px; line-height: 1; cursor: pointer; padding: 0; color: var(--text-2); }
 .pf-mv button:disabled { opacity: .3; cursor: default; }
-/* ③ 허용 수준: 접힌 한 줄(제목 · 「기본값 그대로」/「바꾼 값」 + 세 숫자 · 「바꾸기」). 펼치면 선수 칸(이동 횟수 · 이동 거리)이 2, 구단 칸(휴일 홈경기)이 1 */
-.pf-fold { display: flex; align-items: center; gap: 6px 12px; flex-wrap: wrap; font-size: 13.5px; }
-.pf-fold h3 { margin: 0; font-size: 15px; color: var(--navy); }
-.pf-fold .sum b { color: var(--navy); }
-.pf-fold .pf-link { font-weight: 700; }
-.pf-spread #pf-levels > .pf-d { margin: 6px 0 0; }
+/* ③ 허용 수준: 늘 펼쳐 보인다. 관점별 두 칸은 고른 순서대로 — 먼저 맞출 쪽이 왼쪽. 선수 칸(이동 횟수 · 이동 거리)이 2, 구단 칸(휴일 홈경기)이 1 */
+.pf-spread #pf-levels > .pf-d { margin: 2px 0 0; }
+.pf-lv3.club-first { grid-template-columns: minmax(0, 1fr) minmax(0, 2fr); }
 .pf-lv3 { display: grid; grid-template-columns: minmax(0, 2fr) minmax(0, 1fr); gap: 12px; margin-top: 8px; align-items: start; }
 .pf-lv3 .grp { border: 1px solid var(--line); border-radius: 10px; padding: 9px 14px 10px; min-width: 0; }
 .pf-lv3 .grp > h4 { margin: 0; font-size: 13px; color: var(--navy); display: flex; gap: 6px; align-items: center; }
